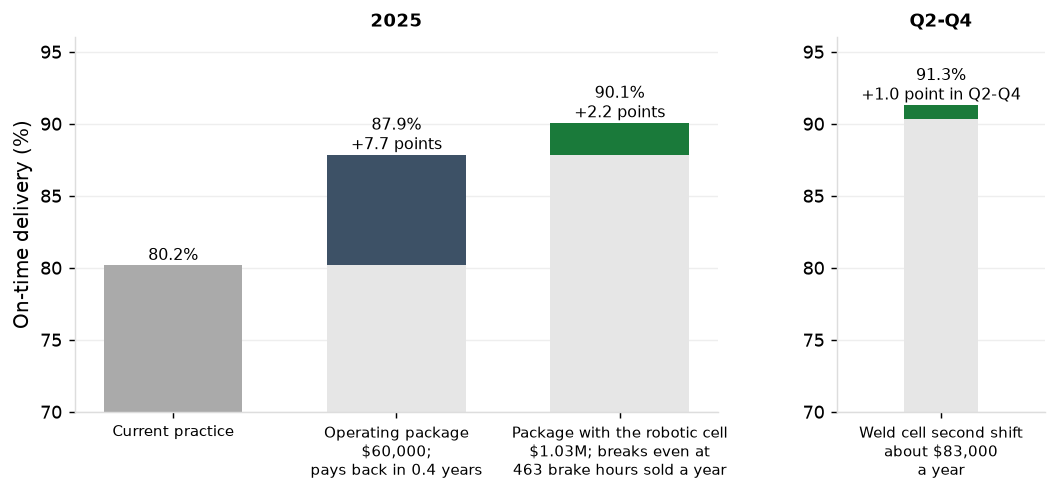
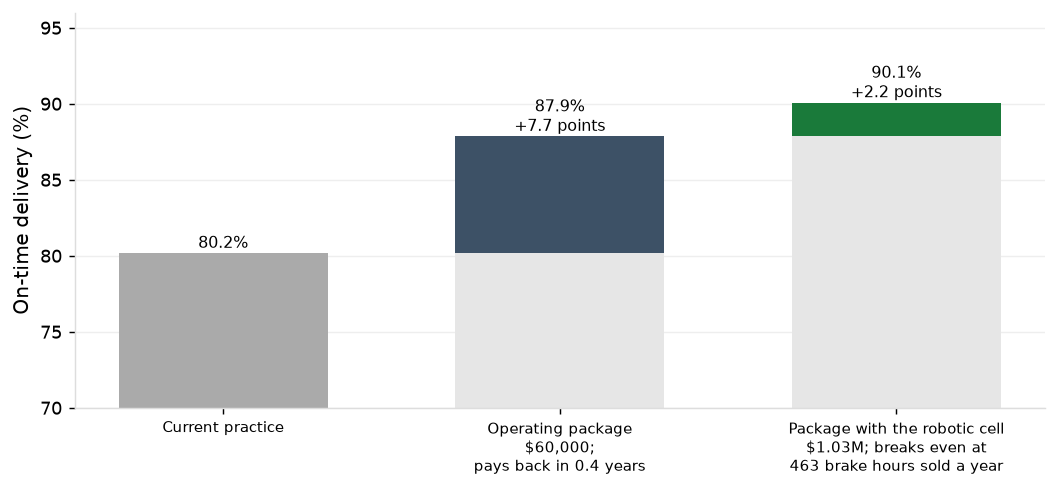
Simulation report: executive summary text and charts

diff --git a/docs/reports/options_tested.html b/docs/reports/options_tested.html
@@ -57,15 +57,12 @@ nav.toc a.sub { font-size: 12px; padding-left: 22px; }
 <body><div class="page-header"><h1>Discrete Event Simulation: On-time Delivery</h1><div class="sub">Created by Brian Davis, 2026</div></div>
 <div class="layout"><nav class="toc"><div class="toc-title">Contents</div><a href="#summary">Executive Summary</a><a href="#f1">1. The Scenarios Simulated</a><a href="#f2">2. Simulation Results</a><a href="#f3">3. Return on the Changes That Work</a><a href="#f4">4. Model Accuracy & Validation</a><a href="#appendix">Appendix</a></nav>
 <main class="content"><h2 id='summary'>Executive Summary</h2>
-<p>A discrete event simulation of the floor replays every job released in 2024 and 2025 under the shop's own calendars, dispatch rules and recorded downtime, and reproduces 2025 within tolerance on all ten measures set before it was run (<a href='#f4'>Section 4</a>).</p>
-<div class='kpis'><div class='kpi'><div class='v'>80.2%</div><div class='l'>On-time delivery, 2025 (shop 80.8%)</div></div><div class='kpi'><div class='v'>90.3%</div><div class='l'>On-time delivery, Q2-Q4 (shop 91.3%)</div></div><div class='kpi'><div class='v'>464 jobs</div><div class='l'>Year-end build peak (shop 466)</div></div></div>
-<p>Changes that add brake hours raise on-time delivery; changes to the order or release of work do not (<a href='#f2'>Section 2</a>).</p>
-<div class='chart-title'>Change in On-time Delivery by Scenario, 2025</div><img alt="Change in On-time Delivery by Scenario, 2025" src="../figures/summary_effects.png?v=6631d925">
-<div class='caption'>The weld cell second shift works in Q2-Q4 (+1.0 point).</div>
-<p>The operating package is the first step; the robotic cell is the second if the shop can sell the brake hours it frees (<a href='#f3'>Section 3</a>).</p>
-<div class='chart-title'>On-time Delivery From Current Practice, With Cost and Return, 2025</div><img alt="On-time Delivery From Current Practice, With Cost and Return, 2025" src="../figures/summary_steps.png?v=690689b2">
-<div class='caption'>The tool changer on B3 does not pay back at half its freed hours sold.</div>
-<p>The operating package pairs a permanent change, the setup program, with a seasonal one, planned Saturdays on both brakes from November through February.</p>
+<p>A discrete event simulation of the shop floor was built to test which changes to the shop would raise on-time delivery before any of them are made. This simulation models the shop's machines, shift calendars, dispatch rules and recorded downtime, and draws setup, run, move, and material times straight from the data record. This allowed us to implement various scenarios with changes to the shop's release, dispatch and capacity and see which impact on-time delivery.</p>
+<p>Before running the simulations, the model was tuned and its accuracy and validation scores are presented in <a href='#f4'>Section 4</a>. The model reproduced the shop's 2025 figures within tolerance on 100% of the measures it was tested on, including an on-time delivery rate of 80.2% (vs. measured rate of 80.8%) and a peak year-end WIP build of 464 jobs (vs. measured peak of 466).</p>
+<p>We ran scenarios across two broad categories: (i) Release and Dispatch, no-cost changes to the order or release of work, and (ii) Capacity, capital-intensive changes that add machine hours, permanently or seasonally. As seen below, changes that add brake hours had the largest positive impact on on-time delivery.</p>
+<div class='chart-title'>Change in On-time Delivery by Scenario, 2025</div><img alt="Change in On-time Delivery by Scenario, 2025" src="../figures/summary_effects.png?v=40f874f9">
+<p>The operating package, a setup reduction program on the brakes plus planned Saturday shifts on both brakes, raises 2025 on-time delivery 7.7 points to 87.9% for $60k one-time cost plus $15.4k a year, and pays back in under five months. Adding a robotic bending cell on top of the operating package raises on-time delivery another 2.2 points; $1.03M initial investment, returns the most of any option tested, with a net present value of $1.52M and payback in 2.0 years.</p>
+<div class='chart-title'>On-time Delivery From Current Practice, With Cost and Return, 2025</div><img alt="On-time Delivery From Current Practice, With Cost and Return, 2025" src="../figures/summary_steps.png?v=888f887c">
 <h2 id='f1'>1. The Scenarios Simulated</h2>
 <p><a href='capacity_constraints_and_setups.html'>The capacity report</a> finds the brakes are the constraint: they hold 53% of queue time and lose 36 hours a week to setups over standard. That allows two ways to raise on-time delivery. The first changes how work enters and moves through the floor, through release and dispatch rules, and costs nothing but the rule. If late jobs come from too much work on the floor, or from the wrong job going next at the brakes, these should move delivery. The second adds hours at the brakes or around them, through operating changes or new equipment, and costs labor or capital. If late jobs come from too few brake hours, only these should move it. Each scenario changes one thing in the model and keeps the 2024 to 2025 releases. See Appendix Tables <a href='#t1'>1</a> and <a href='#t2'>2</a> for additional detail.</p>
 <div class='chart-title'>Release and Dispatch Scenarios</div><table class="data"><thead><tr><th>Scenario</th><th>The change</th><th>Cost</th><th>Why it could help</th></tr></thead><tbody><tr><td class="">WIP cap at 240, 210 and 180</td><td class="">A job is released only when fewer jobs than the cap are on the floor.</td><td class="">None</td><td class="">The floor carried 238 jobs on average in 2025 (the flow report); fewer jobs on the floor should mean shorter waits.</td></tr><tr><td class="">Constraint-paced release</td><td class="">A job with brake work is released only when the brakes have 3 days of work or less waiting.</td><td class="">None</td><td class="">The brakes hold 53% of queue time (the capacity report); pacing release to them should keep work from piling up there.</td></tr><tr><td class="">Earliest due date</td><td class="">Every work center takes the job with the earliest due date next.</td><td class="">None</td><td class="">Late jobs wait longest at the brakes (the flow report); taking the most urgent job first should ship more of them on time.</td></tr><tr><td class="">Critical ratio</td><td class="">Every work center takes the job with the least time left for the work still to do.</td><td class="">None</td><td class="">It ranks jobs by urgency and remaining work together.</td></tr><tr><td class="">Shortest processing time at the brakes</td><td class="">The brakes take the shortest job next.</td><td class="">None</td><td class="">Short jobs clear the queue fastest, which lowers the average wait.</td></tr><tr><td class="">Light work ahead of heavy on B1 and B2</td><td class="">B1 and B2 take light parts ahead of heavy ones when the other brakes are backed up.</td><td class="">None</td><td class="">Precision and expedited work goes to B1 and B2, which have the shortest brake queues (the capacity report); light work could use that room.</td></tr><tr><td class="">Third color day for black</td><td class="">The powder line runs black on a third day each week.</td><td class="">None</td><td class="">Powder coat operations wait 1.1 days on average for their color day (the flow report).</td></tr></tbody></table>

diff --git a/analytics/reports/options_tested.py b/analytics/reports/options_tested.py
@@ -210,19 +210,16 @@ def fig_changes():
 KIND = {SETUP: "Permanent capacity at the brakes", CHANGER: "Permanent capacity at the brakes", CELL: "Permanent capacity at the brakes",
         SAT_BOTH: "Seasonal capacity at the brakes", SAT_ONE: "Seasonal capacity at the brakes", WELD: "Capacity elsewhere", TOWER: "Capacity elsewhere"}
 KIND_COLOR = {"Permanent capacity at the brakes": BRAND_BLUE, "Seasonal capacity at the brakes": LIGHT_BLUE, "Capacity elsewhere": GREEN, "Release and dispatch rule": AMBER}
-NO_EFFECT, WORSE_FILL = "#D9D9D9", RED
 
 
 def fig_summary_effects():
-    """Every single scenario's change in on-time delivery for the year, sorted, filled by the kind of change where it works."""
+    """Every single scenario's change in on-time delivery for the year, sorted, filled by the kind of change."""
     names = sorted(A.RELEASE + A.CAPACITY, key=lambda s: chg(s, "on_time_delivery"))
     f, ax = fig(h=5.0, grid="x")
     y = np.arange(len(names))
     for yi, s in zip(y, names):
         v = chg(s, "on_time_delivery") * 100
-        verdict = A.VERDICT[s]
-        color = NO_EFFECT if verdict == "No effect" else WORSE_FILL if verdict == "Makes it worse" else KIND_COLOR[KIND.get(s, "Release and dispatch rule")]
-        ax.barh(yi, v, 0.66, color=color)
+        ax.barh(yi, v, 0.66, color=KIND_COLOR[KIND.get(s, "Release and dispatch rule")])
         ax.annotate(sg(v), (v, yi), textcoords="offset points", xytext=(4 if v >= 0 else -4, 0), va="center", ha="left" if v >= 0 else "right", fontsize=8.5)
     ax.axvline(0, color="#333333", lw=1)
     ax.set_yticks(y)
@@ -230,16 +227,14 @@ def fig_summary_effects():
     lo, hi = ax.get_xlim()
     ax.set_xlim(lo - 1.2, hi + 1.2)
     ax.set_xlabel(f"Change in on-time delivery, {YEAR} (points)")
-    f.legend([Patch(color=c) for c in KIND_COLOR.values()] + [Patch(color=NO_EFFECT), Patch(color=WORSE_FILL)], list(KIND_COLOR) + ["No effect", "Makes it worse"], frameon=False,
-             fontsize=8.5, ncol=3, loc="lower center")
+    f.legend([Patch(color=c) for c in KIND_COLOR.values()], list(KIND_COLOR), frameon=False, fontsize=8.5, ncol=2, loc="lower center")
     f.tight_layout(rect=(0, 0.1, 1, 1))
     return save(f, "summary_effects", "")
 
 
-def fig_summary_steps(package, cell, weld):
-    """On-time delivery from current practice to the package and the package with the robotic cell, each with its cost and return; the weld cell second shift beside them."""
-    f, axes = fig(h=4.0, ncols=2, gridspec_kw=dict(width_ratios=[3.1, 1], wspace=0.28))
-    ax = axes[0]
+def fig_summary_steps(package, cell):
+    """On-time delivery from current practice to the package and the package with the robotic cell, each with its cost and return."""
+    f, ax = fig(h=4.0)
     base, pk, pc_ = (A.mean(s, "on_time_delivery") * 100 for s in (CURRENT, PACKAGE, P_CELL))
     steps = [("Current practice", base, None, GREY),
              ("Operating package" + chr(10) + f"{usd(package['one_time'])};" + chr(10) + f"pays back in {package['payback']:.1f} years", pk, pk - base, BRAND_BLUE),
@@ -255,18 +250,7 @@ def fig_summary_steps(package, cell, weld):
     ax.set_xticklabels([s[0] for s in steps], fontsize=8.5)
     ax.set_ylim(floor, 96)
     ax.set_ylabel("On-time delivery (%)")
-    ax.set_title(f"{YEAR}", fontsize=10)
-    ax = axes[1]
-    b0, b1 = A.mean(CURRENT, "on_time_delivery", "rest") * 100, A.mean(WELD, "on_time_delivery", "rest") * 100
-    ax.bar(0, b0 - floor, 0.5, bottom=floor, color="#E6E6E6")
-    ax.bar(0, b1 - b0, 0.5, bottom=b0, color=KIND_COLOR["Capacity elsewhere"])
-    ax.annotate(f"{b1:.1f}%" + chr(10) + f"{sg(b1 - b0)} point in {RT}", (0, b1), textcoords="offset points", xytext=(0, 3), ha="center", fontsize=9)
-    ax.set_xticks([0])
-    ax.set_xticklabels(["Weld cell second shift" + chr(10) + f"about {usd(round(weld['weld'], -3))}" + chr(10) + "a year"], fontsize=8.5)
-    ax.set_xlim(-0.7, 0.7)
-    ax.set_ylim(floor, 96)
-    ax.set_title(RT, fontsize=10)
-    f.subplots_adjust(left=0.08, right=0.99, top=0.92, bottom=0.2)
+    f.subplots_adjust(left=0.08, right=0.99, top=0.96, bottom=0.2)
     return save(f, "summary_steps", "")
 
 
@@ -538,21 +522,25 @@ def build():
     T.add("customers", f"On-time delivery by customer, {YEAR}: the customers making up 80% of revenue", t_customers([CURRENT, PACKAGE, WELD, P_CHANGER, P_CELL]))
 
     b = ["<h2 id='summary'>Executive Summary</h2>"]
-    _pk, _cell, _weld = A.money(PACKAGE), A.money(P_CELL, PACKAGE), A.money(WELD)
-    assert ten["within"].all() and bd["peak_week"] == bd["peak_week_model"] and A.money(P_CHANGER, PACKAGE)["npv"][2] < 0
-    tile = lambda v, l: f"<div class='kpi'><div class='v'>{v}</div><div class='l'>{l}</div></div>"
-    b.append(f"<p>A discrete event simulation of the floor replays every job released in {YEAR - 1} and {YEAR} under the shop's own calendars, dispatch rules and recorded downtime, "
-             f"and reproduces {YEAR} within tolerance on all ten measures set before it was run (<a href='#f4'>Section 4</a>).</p>")
-    b.append("<div class='kpis'>" + tile(pc(model_otd["year"]), f"On-time delivery, {YEAR} (shop {pc(measured_otd['year'])})")
-             + tile(pc(model_otd["rest"]), f"On-time delivery, {RT} (shop {pc(measured_otd['rest'])})")
-             + tile(f"{n0(bd['peak_model'])} jobs", f"Year-end build peak (shop {n0(bd['peak_measured'])})") + "</div>")
-    b.append("<p>Changes that add brake hours raise on-time delivery; changes to the order or release of work do not (<a href='#f2'>Section 2</a>).</p>")
+    _pk, _cell = A.money(PACKAGE), A.money(P_CELL, PACKAGE)
+    assert ten["within"].all() and bd["peak_week"] == bd["peak_week_model"]
+    assert _pk["payback"] * 12 < 5 and _cell["npv"][0] > max(_pk["npv"][0], A.money(P_CHANGER, PACKAGE)["npv"][0], A.money(P_TOWER, PACKAGE)["npv"][0])
+    kusd = lambda x: f"${x / 1000:,.1f}k".replace(".0k", "k")
+    b.append("<p>A discrete event simulation of the shop floor was built to test which changes to the shop would raise on-time delivery before any of them are made. "
+             "This simulation models the shop's machines, shift calendars, dispatch rules and recorded downtime, and draws setup, run, move, and material times straight from the data record. "
+             "This allowed us to implement various scenarios with changes to the shop's release, dispatch and capacity and see which impact on-time delivery.</p>")
+    b.append(f"<p>Before running the simulations, the model was tuned and its accuracy and validation scores are presented in <a href='#f4'>Section 4</a>. "
+             f"The model reproduced the shop's {YEAR} figures within tolerance on {pc(ten['within'].mean(), 0)} of the measures it was tested on, including an on-time delivery rate of "
+             f"{pc(model_otd['year'])} (vs. measured rate of {pc(measured_otd['year'])}) and a peak year-end WIP build of {n0(bd['peak_model'])} jobs (vs. measured peak of {n0(bd['peak_measured'])}).</p>")
+    b.append("<p>We ran scenarios across two broad categories: (i) Release and Dispatch, no-cost changes to the order or release of work, and (ii) Capacity, capital-intensive changes that add "
+             "machine hours, permanently or seasonally. As seen below, changes that add brake hours had the largest positive impact on on-time delivery.</p>")
     b.append(titled(fig_summary_effects(), f"Change in On-time Delivery by Scenario, {YEAR}"))
-    b.append(f"<div class='caption'>The weld cell second shift works in {RT} ({sg(chg(WELD, 'on_time_delivery', 'rest') * 100)} point).</div>")
-    b.append("<p>The operating package is the first step; the robotic cell is the second if the shop can sell the brake hours it frees (<a href='#f3'>Section 3</a>).</p>")
-    b.append(titled(fig_summary_steps(_pk, _cell, _weld), f"On-time Delivery From Current Practice, With Cost and Return, {YEAR}"))
-    b.append("<div class='caption'>The tool changer on B3 does not pay back at half its freed hours sold.</div>")
-    b.append("<p>The operating package pairs a permanent change, the setup program, with a seasonal one, planned Saturdays on both brakes from November through February.</p>")
+    b.append(f"<p>The operating package, a setup reduction program on the brakes plus planned Saturday shifts on both brakes, raises {YEAR} on-time delivery "
+             f"{chg(PACKAGE, 'on_time_delivery') * 100:.1f} points to {pc(A.mean(PACKAGE, 'on_time_delivery'))} for {kusd(_pk['one_time'])} one-time cost plus {kusd(_pk['added'])} a year, "
+             f"and pays back in under five months. Adding a robotic bending cell on top of the operating package raises on-time delivery another "
+             f"{(A.mean(P_CELL, 'on_time_delivery') - A.mean(PACKAGE, 'on_time_delivery')) * 100:.1f} points; {musd(_cell['one_time'])} initial investment, returns the most of any option tested, "
+             f"with a net present value of {musd(_cell['npv'][0])} and payback in {_cell['payback']:.1f} years.</p>")
+    b.append(titled(fig_summary_steps(_pk, _cell), f"On-time Delivery From Current Practice, With Cost and Return, {YEAR}"))
     # 1 ── the scenarios
     b.append("<h2 id='f1'>1. The Scenarios Simulated</h2>")
     b.append(f"<p>{link('capacity', 'The capacity report')} finds the brakes are the constraint: they hold {pc(M['brake_share_of_queue'], 0)} of queue time and lose "
